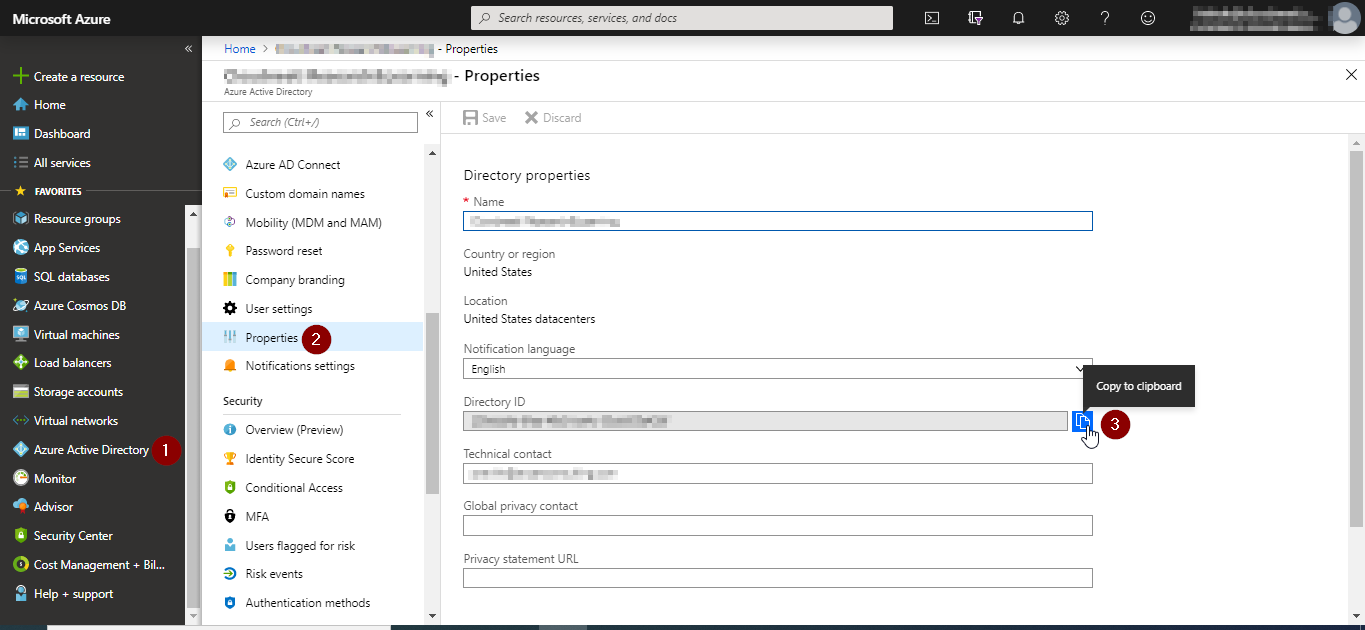
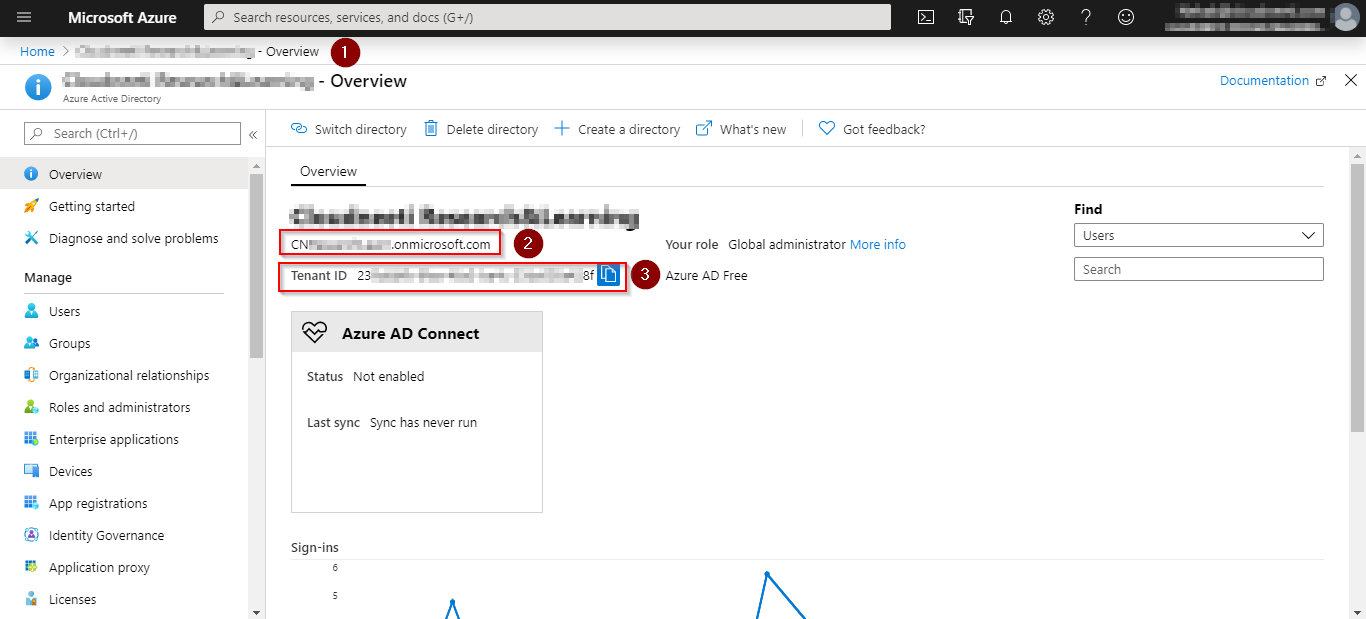
Task 15330 Azure portal images updated

diff --git a/docs/onboardingGuide/azureSubscriptions.md b/docs/onboardingGuide/azureSubscriptions.md
@@ -246,23 +246,15 @@ The Cloudneeti application **License Admin** requires this information to add an
 | Registered Cloudneeti Application ID     | Microsoft Azure   | Subscription Owner |
 | Registered Cloudneeti Application Secret | Microsoft Azure   | Subscription Owner |
 
-#### Azure Directory ID
+#### Azure Directory Id and Domain Name
 
-1.  Click on **Azure Active Directory** on the primary menu
+1.  Navigate to **Azure Active Directory** (1)
 
-2.  Click on **Properties** on the secondary menu
+2.  Copy **Domain Name** (2) to a notepad
 
-3.  Copy **Directory ID** to a notepad
+3.  Copy **Directory ID** (3) to a notepad
+
     ![Azure Directory](.././images/azureSubscriptions/Azure_Directory_ID.png#thumbnail)
-
-#### Azure AD Domain Name
-
-1.  Click on **Azure Active Directory** on the primary menu
-
-2.  Click on **Overview** on the secondary menu
-
-3.  Copy **Domain name** to a notepad
-    ![Azure Domain](.././images/azureSubscriptions/Azure_Domain_Name.png#thumbnail)
 
 #### Registered Cloudneeti Application ID 
 
@@ -270,7 +262,8 @@ The Cloudneeti application **License Admin** requires this information to add an
 
 2.  Select **App Registrations** in the secondary menu
 
-3.  Select Cloudneeti Application registered in [step1](.././azureSubscriptions/#step-1-register-cloudneeti-application)
+3.  Select Cloudneeti Application registered in [step 1](.././azureSubscriptions/#step-1-register-cloudneeti-application-manually-or-using-azure-powershell-script)
+
     ![Azure Domain](.././images/azureSubscriptions/Grant_Permission.png#thumbnail)
 
 4.  Copy the Cloudneeti Application id
@@ -282,7 +275,7 @@ The Cloudneeti application **License Admin** requires this information to add an
 
 2.  Select **App Registrations** in the secondary menu
 
-3.  Select Cloudneeti Application registered in [step 1](.././azureSubscriptions/#step-1-register-cloudneeti-application)
+3.  Select Cloudneeti Application registered in [step 1](.././azureSubscriptions/#step-1-register-cloudneeti-application-manually-or-using-azure-powershell-script)
 
 4.  Click on **new client secret** in **Certificates & secrets** section
 

diff --git a/docs/userGuide/auditReportAPI.md b/docs/userGuide/auditReportAPI.md
@@ -30,8 +30,6 @@ The Audit Report API provide information related to your compliance posture acro
 | Key	        | Value                                |
 |---------------|--------------------------------------|
 | Ocp-Apim-Subscription-Key 	| [Cloudneeti API key generated](../../administratorGuide/configureCloudneetiAPIAccess/)             |
-| Ocp-Apim-Subscription-Key 	| [Cloudneeti API key generated](../../administratorGuide/configureCloudneetiAPIAccess/)             |
-
 
 
 ### Response
